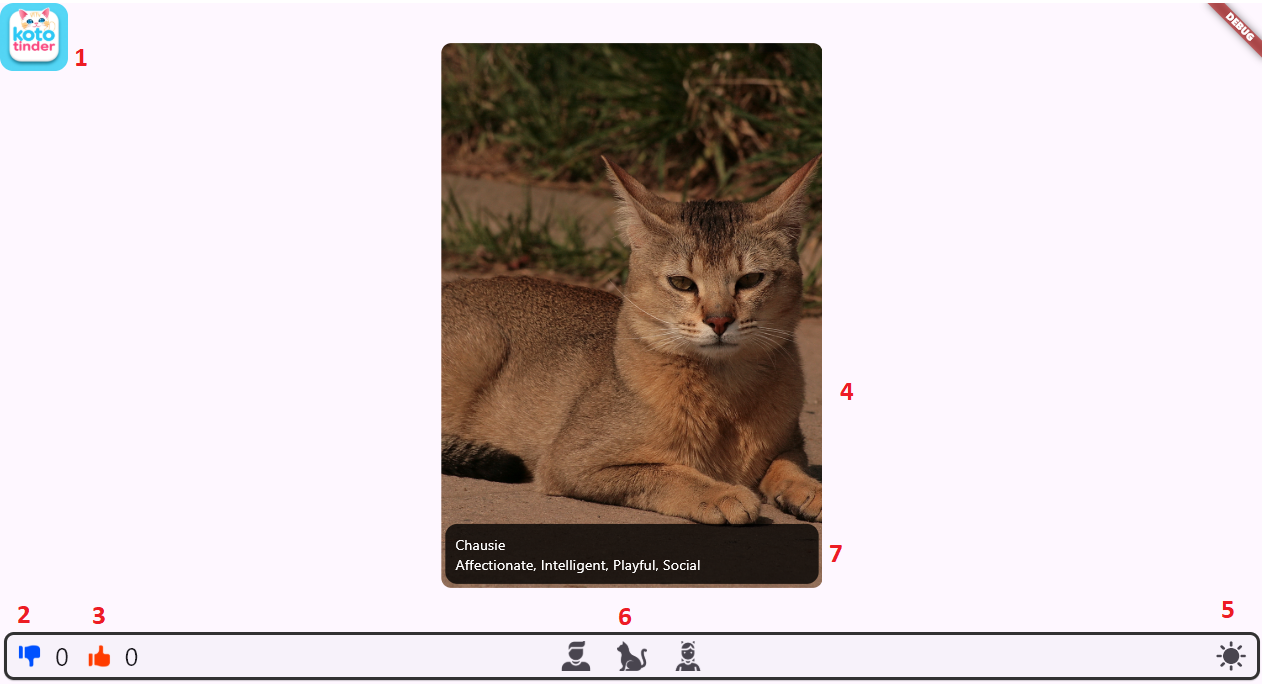
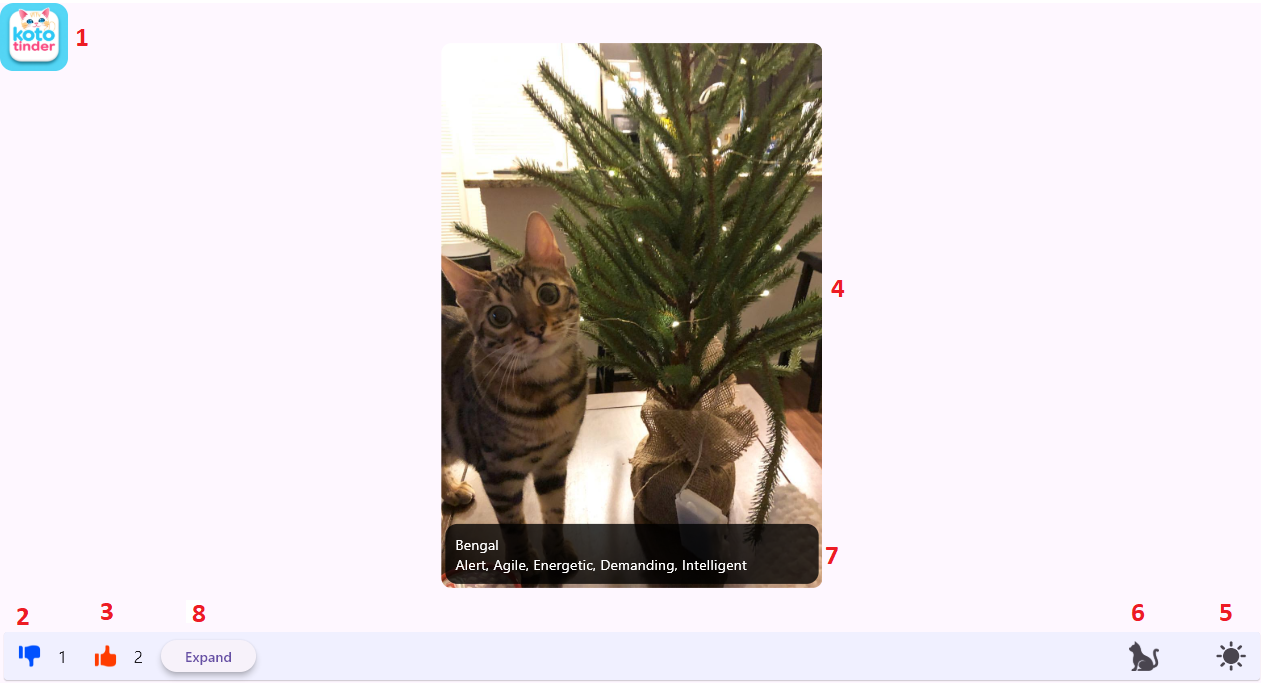
readme update

diff --git a/lib/src/widget/components/likes_history_list.dart b/lib/src/widget/components/likes_history_list.dart
@@ -41,7 +41,7 @@ class HistoryList extends StatelessWidget {
 }
 
 class _HistoryItem extends StatelessWidget {
-  static DateFormat formatter = DateFormat('MM-dd H:m');
+  static DateFormat formatter = DateFormat('MM-dd HH:mm');
   final int index;
   final LikeInteraction interaction;
 
@@ -69,7 +69,14 @@ class _HistoryItem extends StatelessWidget {
               crossAxisAlignment: CrossAxisAlignment.center,
               spacing: 2,
               children: [
-                Text(style: const TextStyle(fontSize: 20), index.toString()),
+                SizedBox(
+                    width: 20,
+                    child: FittedBox(
+                        fit: BoxFit.scaleDown,
+                        child: Text(
+                          index.toString(),
+                          style: const TextStyle(fontSize: 20),
+                        ))),
                 IconButton.filled(
                     style: IconButton.styleFrom(
                         padding: const EdgeInsets.symmetric(vertical: 5),
@@ -87,6 +94,16 @@ class _HistoryItem extends StatelessWidget {
                     icon: LoadableImage(
                         url: interaction.imageInfo.url, fit: BoxFit.fitHeight)),
                 likeOrDislike,
+                ConstrainedBox(
+                    constraints: const BoxConstraints(maxWidth: 100),
+                    child: Padding(
+                        padding: const EdgeInsetsDirectional.symmetric(
+                            horizontal: 5),
+                        child: Text(
+                          interaction.imageInfo.imageName,
+                          overflow: TextOverflow.fade,
+                          softWrap: false,
+                        ))),
                 Expanded(
                     child: Text(
                   formatter.format(interaction.actionTime),

diff --git a/README.md b/README.md
@@ -3,9 +3,14 @@
 Автор: Белов Тимофей Николаевич, Б13-303 \
 ## Описание
 В рамках стандартного дз реализовано получение и отображение картинок котов с api thecatapi и использование их в окружении подобном тиндеру. \
-Дополнительно была попытка подключить другие api, уже не с котами (с кашачьими характеристиками, насколько хватило терпения искать соответствующий api) а с людьми/антропоморфами. \
-Используемые api разграничены и позволяют переключаться между ними. \
-Ссылка на build apk (от 15.03.2025) [apk](https://drive.google.com/file/d/1e2SU8P0bvLxtV3PsDXLK_363eJK84SJy/view?usp=sharing)
+Есть возможность просматривания на отдельной странице своей истории лайков (не сохраняется при закрытии). Также включает удаление и фильтрацию. \
+Ссылка на build apk (от 30.03.2025) [apk](https://drive.google.com/file/d/1e2SU8P0bvLxtV3PsDXLK_363eJK84SJy/view?usp=sharing)
+## Важные изменения
+Поддержка нескольких api осталась, в виде соответствующего функционала в коде. Все элементы кода, работающие с картинками "знают", что их какое-то множество, а не один. Тем не менее остался только api с котами в силу сомнений, как показывать их на экране истории, для которой информация в полях является существенной (а как комбинировать ответы разных api непонятно).
+## Дополнительные возможности (не по ТЗ)
+На странице с историей лайков также показываются дизлайки. Для возможности определения лайк это или дизлайк добавлена иконка в списке. \
+На странице с историей поле ввода фильтра также позволяет полностью отчищать содержимое кнопкой. Что было введено также сохраняется между закрытием/открытием страницы с историей. \
+На странице с историей также поддерживается открытие страницы с полным описанием картинки.
 ## Интерфейс
 Описание возможностей приложения. \
 ![Главная страница](/App_navigation_1.png)
@@ -14,10 +19,22 @@
 3. Кнопка лайков и счетчик лайков
 4. Картинка с api (при клике открывается страница детального описания, может быть свайпнута в любую сторону, вправо - лайк, влево - дизлайк, иначе - просто замена, можно вернуть на изначальную позицию и отменить свайп, тип свайпа не может быть изменен после начала)
 5. Кнопка изменения светлой и темной темы
-6. Кнопки выбора api (не рекомендуется быстро менять)
+6. Кнопки выбора api (работает, но было оставленно только одно api)
 7. Базовой описание полученное с api
+8. Кнопка перехода на страницу с историей лайков и дизлайков
 
 ![Страница описания](/App_navigation_2.png)
 1. Полное изображение, которое было кликнуто
-2. При клике во вне модалка закрывается
-3. Полное описание с api (не все поля с thecatapi отображаются, для других api вообще нет поддержки всех полей)
+2. При клике во вне модалка она закрывается
+3. Полное описание с api (не все поля с thecatapi отображаются)
+
+![Страница описания](/App_navigation_3.png)
+1. Текстовое поле с вводом фильтра (регистр не учитывается. Требуется, чтобы название породы содержало текст фильтра. Используется только первая порода, упомянутая в ответе api)
+2. Кнопка отчистки текстового поля
+3. Номер в списке после фильтрации (шрифт уменьшается при увеличении количества цифр)
+4. Кнопка с картинкой кота (при наведении есть подсветка)
+5. Лайк или дизлайк
+6. Порода (имеет максимальную длину и overflow)
+7. Время действия (только месяц, день, час, минута) (месяц и день добавлены с расчетом на дальнейшее сохранения истории на диск)
+8. Кнопка удаления записи (не вызывает скролл в начало)
+9. Кнопка закрытия страницы с историей
